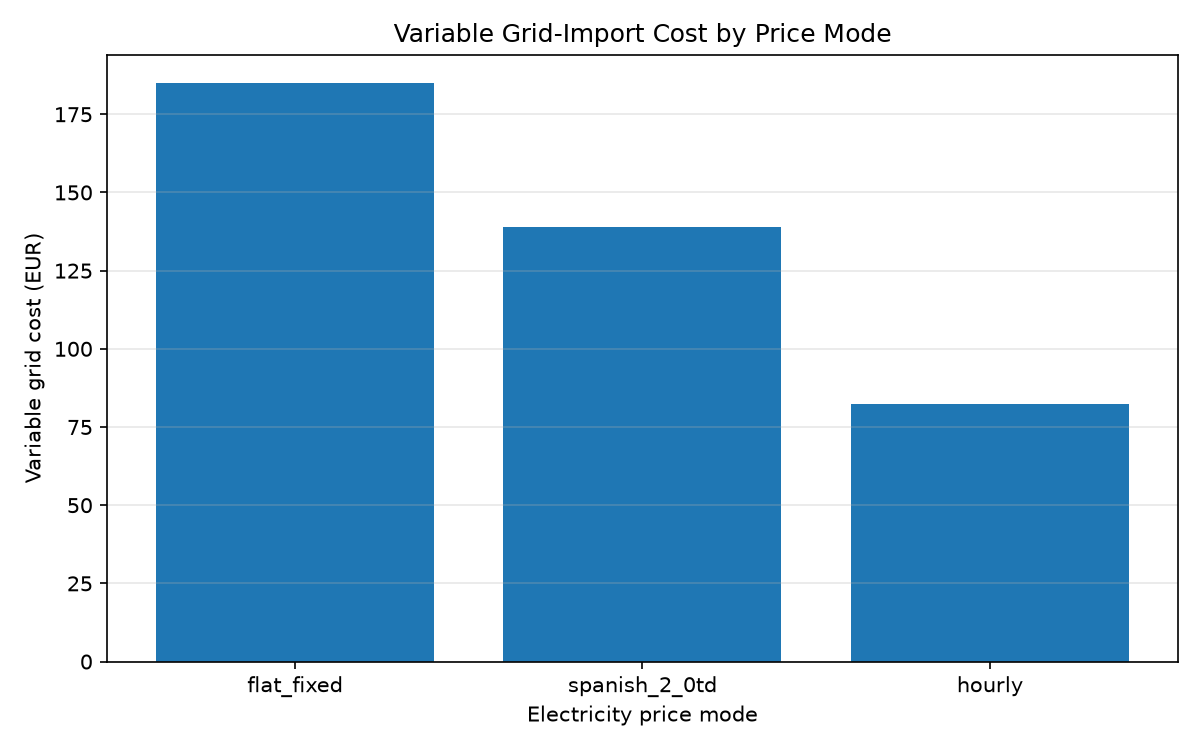
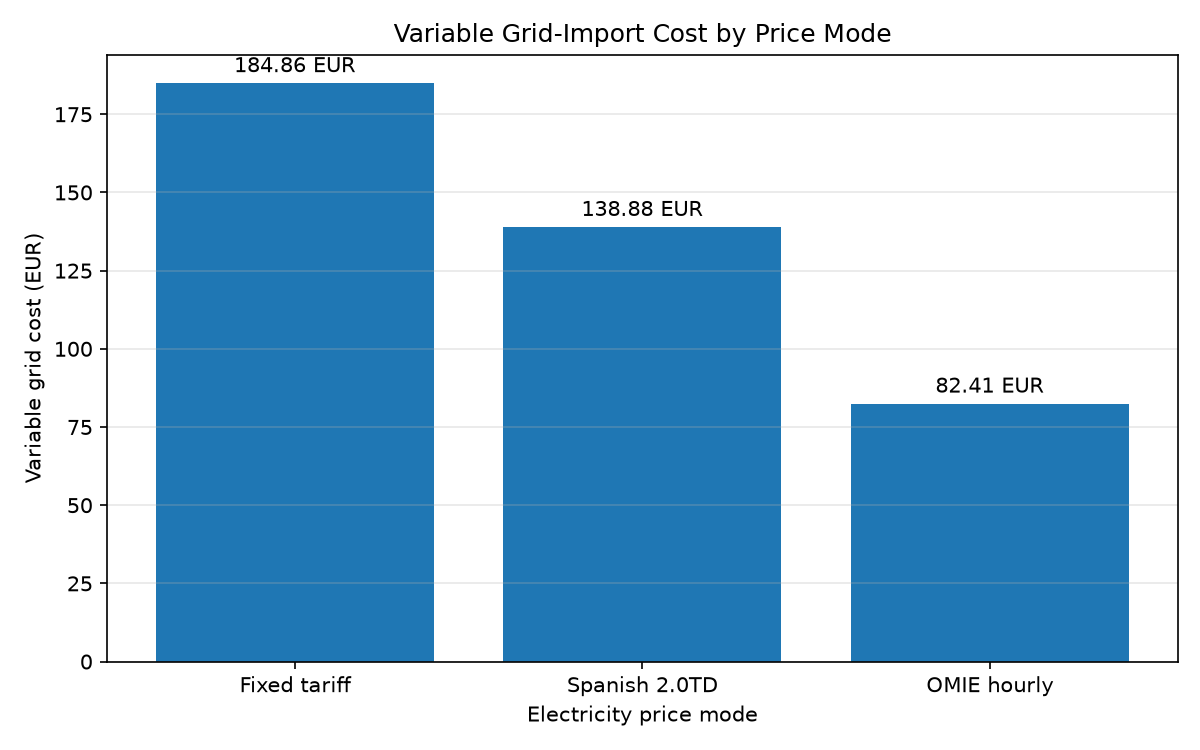
Move price comparison plot to visualization module

diff --git a/src/visualization.py b/src/visualization.py
@@ -1,3 +1,5 @@
+from pathlib import Path
+
 import matplotlib.pyplot as plt
 import pandas as pd
 
@@ -323,3 +325,68 @@ def plot_historical_vs_forecast_grid_import(
     plt.grid(axis="y")
 
     plt.savefig(output_path, dpi=300, bbox_inches="tight")
+
+
+def plot_price_mode_comparison(
+    comparison_df: pd.DataFrame,
+    output_path: str,
+) -> None:
+    required_columns = {
+        "price_mode",
+        "variable_grid_cost_eur",
+    }
+
+    missing_columns = required_columns - set(comparison_df.columns)
+
+    if missing_columns:
+        missing_text = ", ".join(sorted(missing_columns))
+        raise ValueError(
+            f"Missing required comparison columns: {missing_text}"
+        )
+
+    display_names = {
+        "flat_fixed": "Fixed tariff",
+        "spanish_2_0td": "Spanish 2.0TD",
+        "hourly": "OMIE hourly",
+    }
+
+    plot_df = comparison_df.copy()
+
+    plot_df["price_mode_label"] = (
+        plot_df["price_mode"]
+        .map(display_names)
+        .fillna(plot_df["price_mode"])
+    )
+
+    output_file = Path(output_path)
+    output_file.parent.mkdir(
+        parents=True,
+        exist_ok=True,
+    )
+
+    figure, axis = plt.subplots(figsize=(8, 5))
+
+    bars = axis.bar(
+        plot_df["price_mode_label"],
+        plot_df["variable_grid_cost_eur"],
+    )
+
+    axis.set_title(
+        "Variable Grid-Import Cost by Price Mode"
+    )
+    axis.set_xlabel("Electricity price mode")
+    axis.set_ylabel("Variable grid cost (EUR)")
+    axis.grid(axis="y", alpha=0.3)
+
+    axis.bar_label(
+        bars,
+        fmt="%.2f EUR",
+        padding=3,
+    )
+
+    figure.tight_layout()
+    figure.savefig(
+        output_file,
+        dpi=150,
+    )
+    plt.close(figure)

diff --git a/scripts/generate_price_mode_comparison.py b/scripts/generate_price_mode_comparison.py
@@ -1,7 +1,6 @@
 import sys
 from pathlib import Path
 
-import matplotlib.pyplot as plt
 import pandas as pd
 
 PROJECT_ROOT = Path(__file__).resolve().parents[1]
@@ -13,6 +12,7 @@ if str(SRC_DIRECTORY) not in sys.path:
 import config
 from price_comparison import compare_all_price_modes
 from price_loader import load_hourly_prices
+from visualization import plot_price_mode_comparison
 
 DEFAULT_ENERGY_DATA_PATH = "reports/best_scenario_timeseries.csv"
 DEFAULT_OUTPUT_CSV_PATH = "reports/electricity_price_mode_comparison.csv"
@@ -116,32 +116,6 @@ def build_price_mode_comparison_markdown(
 
     return "\n".join(lines)
 
-def plot_price_mode_comparison(
-    comparison_df: pd.DataFrame,
-    output_path: str,
-) -> None:
-    output_file = Path(output_path)
-    output_file.parent.mkdir(
-        parents=True,
-        exist_ok=True,
-    )
-
-    figure, axis = plt.subplots(figsize=(8, 5))
-
-    axis.bar(
-        comparison_df["price_mode"],
-        comparison_df["variable_grid_cost_eur"],
-    )
-
-    axis.set_title(
-        "Variable Grid-Import Cost by Price Mode"
-    )
-    axis.set_xlabel("Electricity price mode")
-    axis.set_ylabel("Variable grid cost (EUR)")
-    axis.grid(axis="y", alpha=0.3)
-
-    figure.tight_layout()
-    figure.savefig(output_file, dpi=150)
 
 def generate_price_mode_comparison(
     energy_data_path: str = DEFAULT_ENERGY_DATA_PATH,